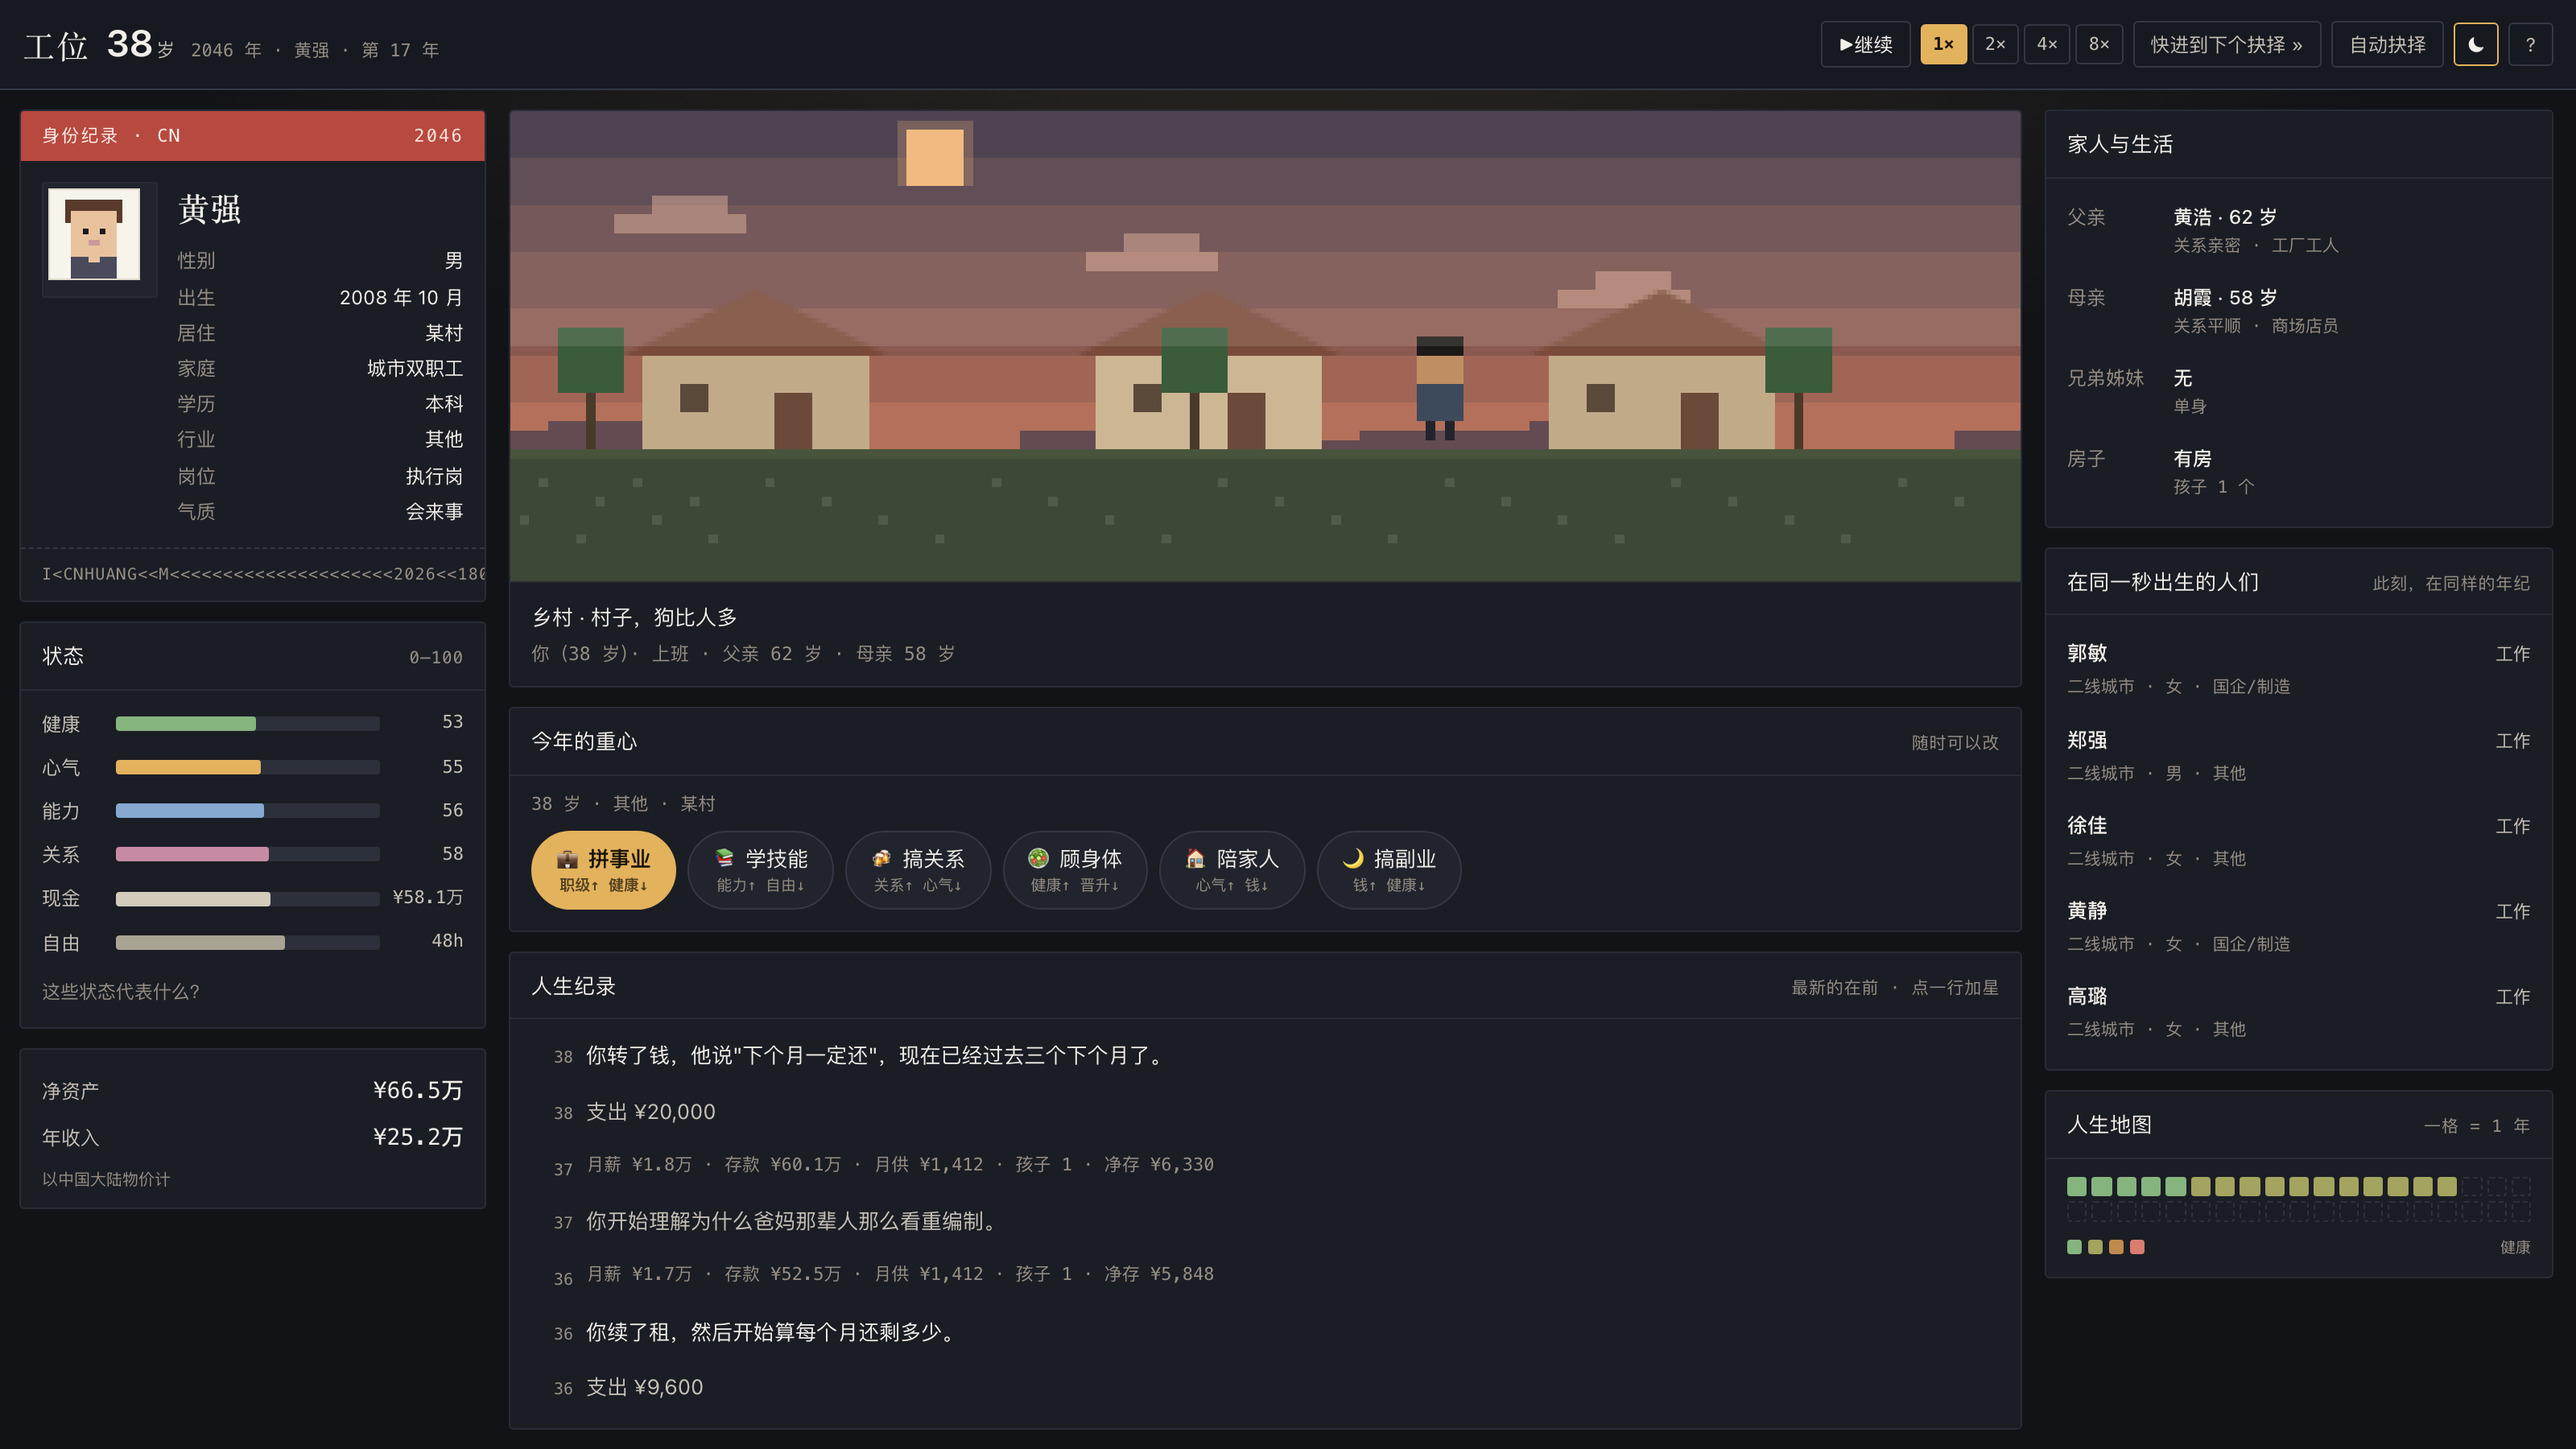
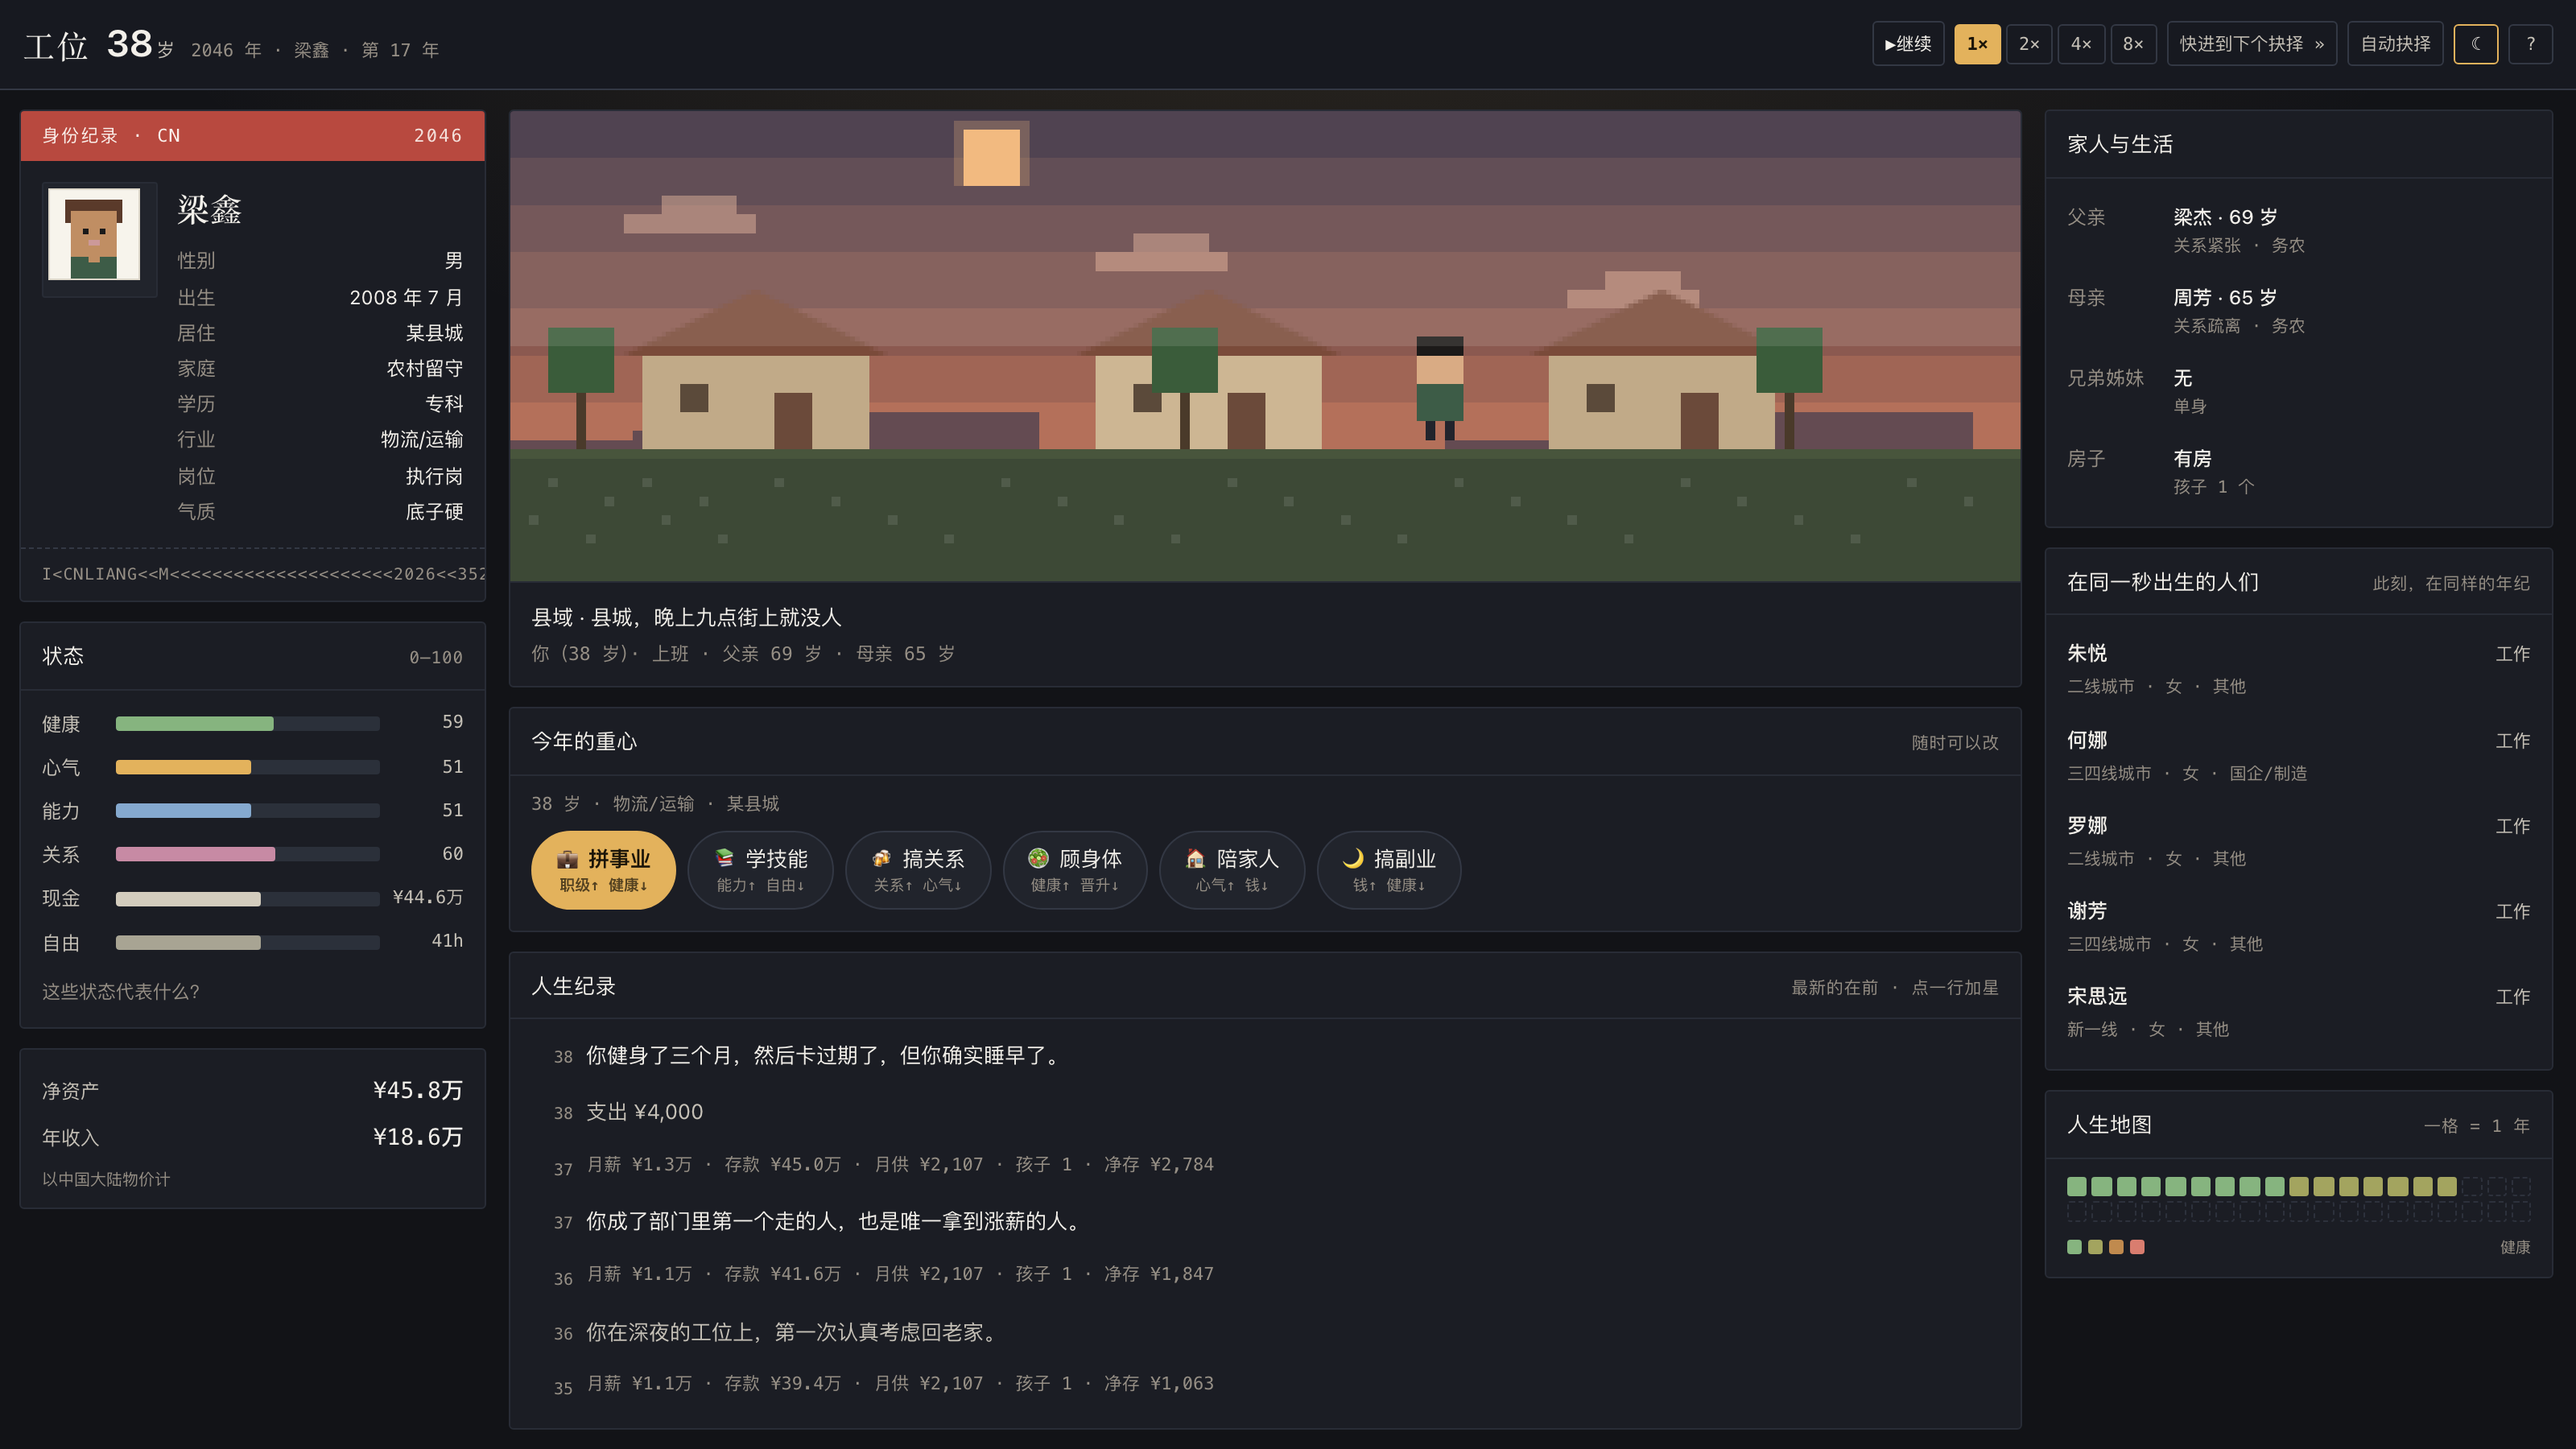
fix: 自动推进被弹窗永久中断
- 拆分「玩家意图(wantRun)」与「计时器(running)」：弹窗只停计时器，关闭后按原意图恢复
- 弹窗恢复时不再额外跳一年（之前每次事件会多走一年）
- 顶栏加时间进度条，能看见一年在流动
- 暂停/结束后进度条归零

diff --git a/js/ui.js b/js/ui.js
@@ -13,7 +13,7 @@
   let focusSel = 'learn';
   let autoDecide = false;
   let busy = false;
-  let resumeAfter = false;
+  let wantRun = false;   // 玩家是否希望时间继续流动（不因弹窗清掉）
 
   // ------------------------------------------------------------------ 主题
   const THEME_KEY = 'gongwei.theme';
@@ -168,14 +168,32 @@
     }, intervalMs());
   }
   function stopTimer() { if (timer) { clearInterval(timer); timer = null; } }
-  function play() {
-    if (!S || S.over) return;
+  function tickBar() {
+    const bar = document.getElementById('tickbar-fill');
+    if (!bar) return;
+    bar.style.transition = 'none';
+    bar.style.width = '0%';
+    if (!running) return;
+    void bar.offsetWidth;
+    bar.style.transition = 'width ' + intervalMs() + 'ms linear';
+    bar.style.width = '100%';
+  }
+  function resetTickBar() {
+    const bar = document.getElementById('tickbar-fill');
+    if (!bar) return;
+    bar.style.transition = 'none';
+    bar.style.width = running ? '100%' : '0%';
+  }
+  function play(immediate) {
+    if (!S || S.over || busy) { return; }
+    wantRun = true;
     running = true;
     $('#play-ico').textContent = '❚❚';
     $('#play-txt').textContent = '暂停';
     $('#btn-play').classList.add('running');
     startTimer();
-    if (!busy) stepOnce();
+    if (immediate !== false) stepOnce();
+    tickBar();
   }
   function pause() {
     running = false;
@@ -183,10 +201,13 @@
     $('#play-ico').textContent = '▶';
     $('#play-txt').textContent = '继续';
     $('#btn-play').classList.remove('running');
+    resetTickBar();
   }
+  function stopPlay() { wantRun = false; pause(); }
 
   // ------------------------------------------------------------------ 快进
   function skipToNode() {
+    wantRun = false;
     pause();
     let guard = 0;
     while (!busy && !S.over && guard++ < 60) {
@@ -568,7 +589,7 @@
   }
 
   function openNode(node, options) {
-    busy = true; resumeAfter = running; pause();
+    busy = true; pause();
     renderAll();
     const m = $('#modal'); m.hidden = false;
     $('#m-kicker').textContent = '抉择 · ' + S.age + ' 岁';
@@ -611,12 +632,12 @@
         if (n2) { openNode(n2.node, filterOptions(n2.options)); return; }
       }
       afterStep();
-      if (resumeAfter) { resumeAfter = false; play(); }
+      if (wantRun && !busy && !S.over) play(false);
     });
   }
 
   function openEvent(ev, done) {
-    busy = true; resumeAfter = running; pause();
+    busy = true; pause();
     renderAll();
     const m = $('#modal'); m.hidden = false;
     $('#m-kicker').textContent = '事件 · ' + (ev.tag || '');
@@ -637,7 +658,7 @@
         showResult(r.lines || [], function () {
           closeModal();
           if (done) done();
-          if (resumeAfter) { resumeAfter = false; play(); }
+          if (wantRun && !busy && !S.over) play(false);
         });
       };
       box.appendChild(b);
@@ -669,6 +690,7 @@
 
   // ------------------------------------------------------------------ 结算
   function finish() {
+    wantRun = false;
     pause();
     if (!S.over) { S.over = true; S.ending = E.evaluate(S); }
     S.over = true;
@@ -885,7 +907,7 @@
     $('#btn-theme').onclick = toggleTheme;
     if ($('#btn-theme-float')) $('#btn-theme-float').onclick = toggleTheme;
 
-    $('#btn-play').onclick = function () { running ? pause() : play(); };
+    $('#btn-play').onclick = function () { running ? stopPlay() : play(); };
     $('#btn-skip').onclick = skipToNode;
     $('#btn-auto').onclick = function () {
       autoDecide = !autoDecide;
@@ -912,7 +934,7 @@
     document.addEventListener('keydown', function (e) {
       if (!$('#s-play').classList.contains('active')) return;
       if (!$('#modal').hidden || !$('#about').hidden) return;
-      if (e.code === 'Space') { e.preventDefault(); running ? pause() : play(); return; }
+      if (e.code === 'Space') { e.preventDefault(); running ? stopPlay() : play(); return; }
       if (e.key >= '1' && e.key <= '6') {
         const id = D.focusOrder[parseInt(e.key, 10) - 1];
         const chip = $$('#chips .chip').find(function (c) { return c.dataset.id === id; });

diff --git a/css/style.css b/css/style.css
@@ -143,6 +143,9 @@ body {
 .tb-meta { font-family: var(--mono); font-size: 11px; color: var(--text-3); white-space: nowrap; overflow: hidden; text-overflow: ellipsis; }
 .tb-right { display: flex; align-items: center; gap: 6px; flex-wrap: wrap; justify-content: flex-end; }
 
+.tickbar { position: absolute; left: 0; right: 0; bottom: -1px; height: 2px; overflow: hidden; pointer-events: none; }
+.tickbar i { display: block; height: 100%; width: 0; background: var(--accent); opacity: .85; }
+
 .tbtn {
   appearance: none; background: transparent; border: 1px solid var(--line);
   color: var(--text-2); font-size: 12px; padding: 5px 10px; border-radius: 3px;
@@ -154,7 +157,10 @@ body {
 .tbtn.solid.running { border-color: var(--accent); color: var(--accent); }
 .tbtn.icon { width: 28px; padding: 5px 0; text-align: center; }
 .speeds { display: flex; gap: 3px; }
-.speeds .tbtn { padding: 5px 7px; font-family: var(--mono); font-size: 11px; }
+.speeds .tickbar { position: absolute; left: 0; right: 0; bottom: -1px; height: 2px; overflow: hidden; pointer-events: none; }
+.tickbar i { display: block; height: 100%; width: 0; background: var(--accent); opacity: .85; }
+
+.tbtn { padding: 5px 7px; font-family: var(--mono); font-size: 11px; }
 
 /* ------------------------------------------------------------ 三栏 */
 .board {
@@ -401,7 +407,10 @@ body.playing .theme-float { display: none; }
   .col-left .card:nth-child(3) { order: 9; }
   .topbar { flex-wrap: wrap; gap: 8px; padding: 8px 10px; }
   .tb-right { width: 100%; justify-content: flex-start; gap: 5px; }
-  .tbtn { padding: 5px 8px; font-size: 11.5px; }
+  .tickbar { position: absolute; left: 0; right: 0; bottom: -1px; height: 2px; overflow: hidden; pointer-events: none; }
+.tickbar i { display: block; height: 100%; width: 0; background: var(--accent); opacity: .85; }
+
+.tbtn { padding: 5px 8px; font-size: 11.5px; }
   #btn-skip { display: none; }
   .speeds { margin-right: auto; }
   #btn-auto { margin-left: auto; }

diff --git a/index.html b/index.html
@@ -72,6 +72,7 @@
         <button id="btn-theme" class="tbtn icon" title="切换主题">☾</button>
         <button id="btn-about2" class="tbtn icon" title="关于">?</button>
       </div>
+      <div class="tickbar" id="tickbar"><i id="tickbar-fill"></i></div>
     </header>
 
     <div class="board">
